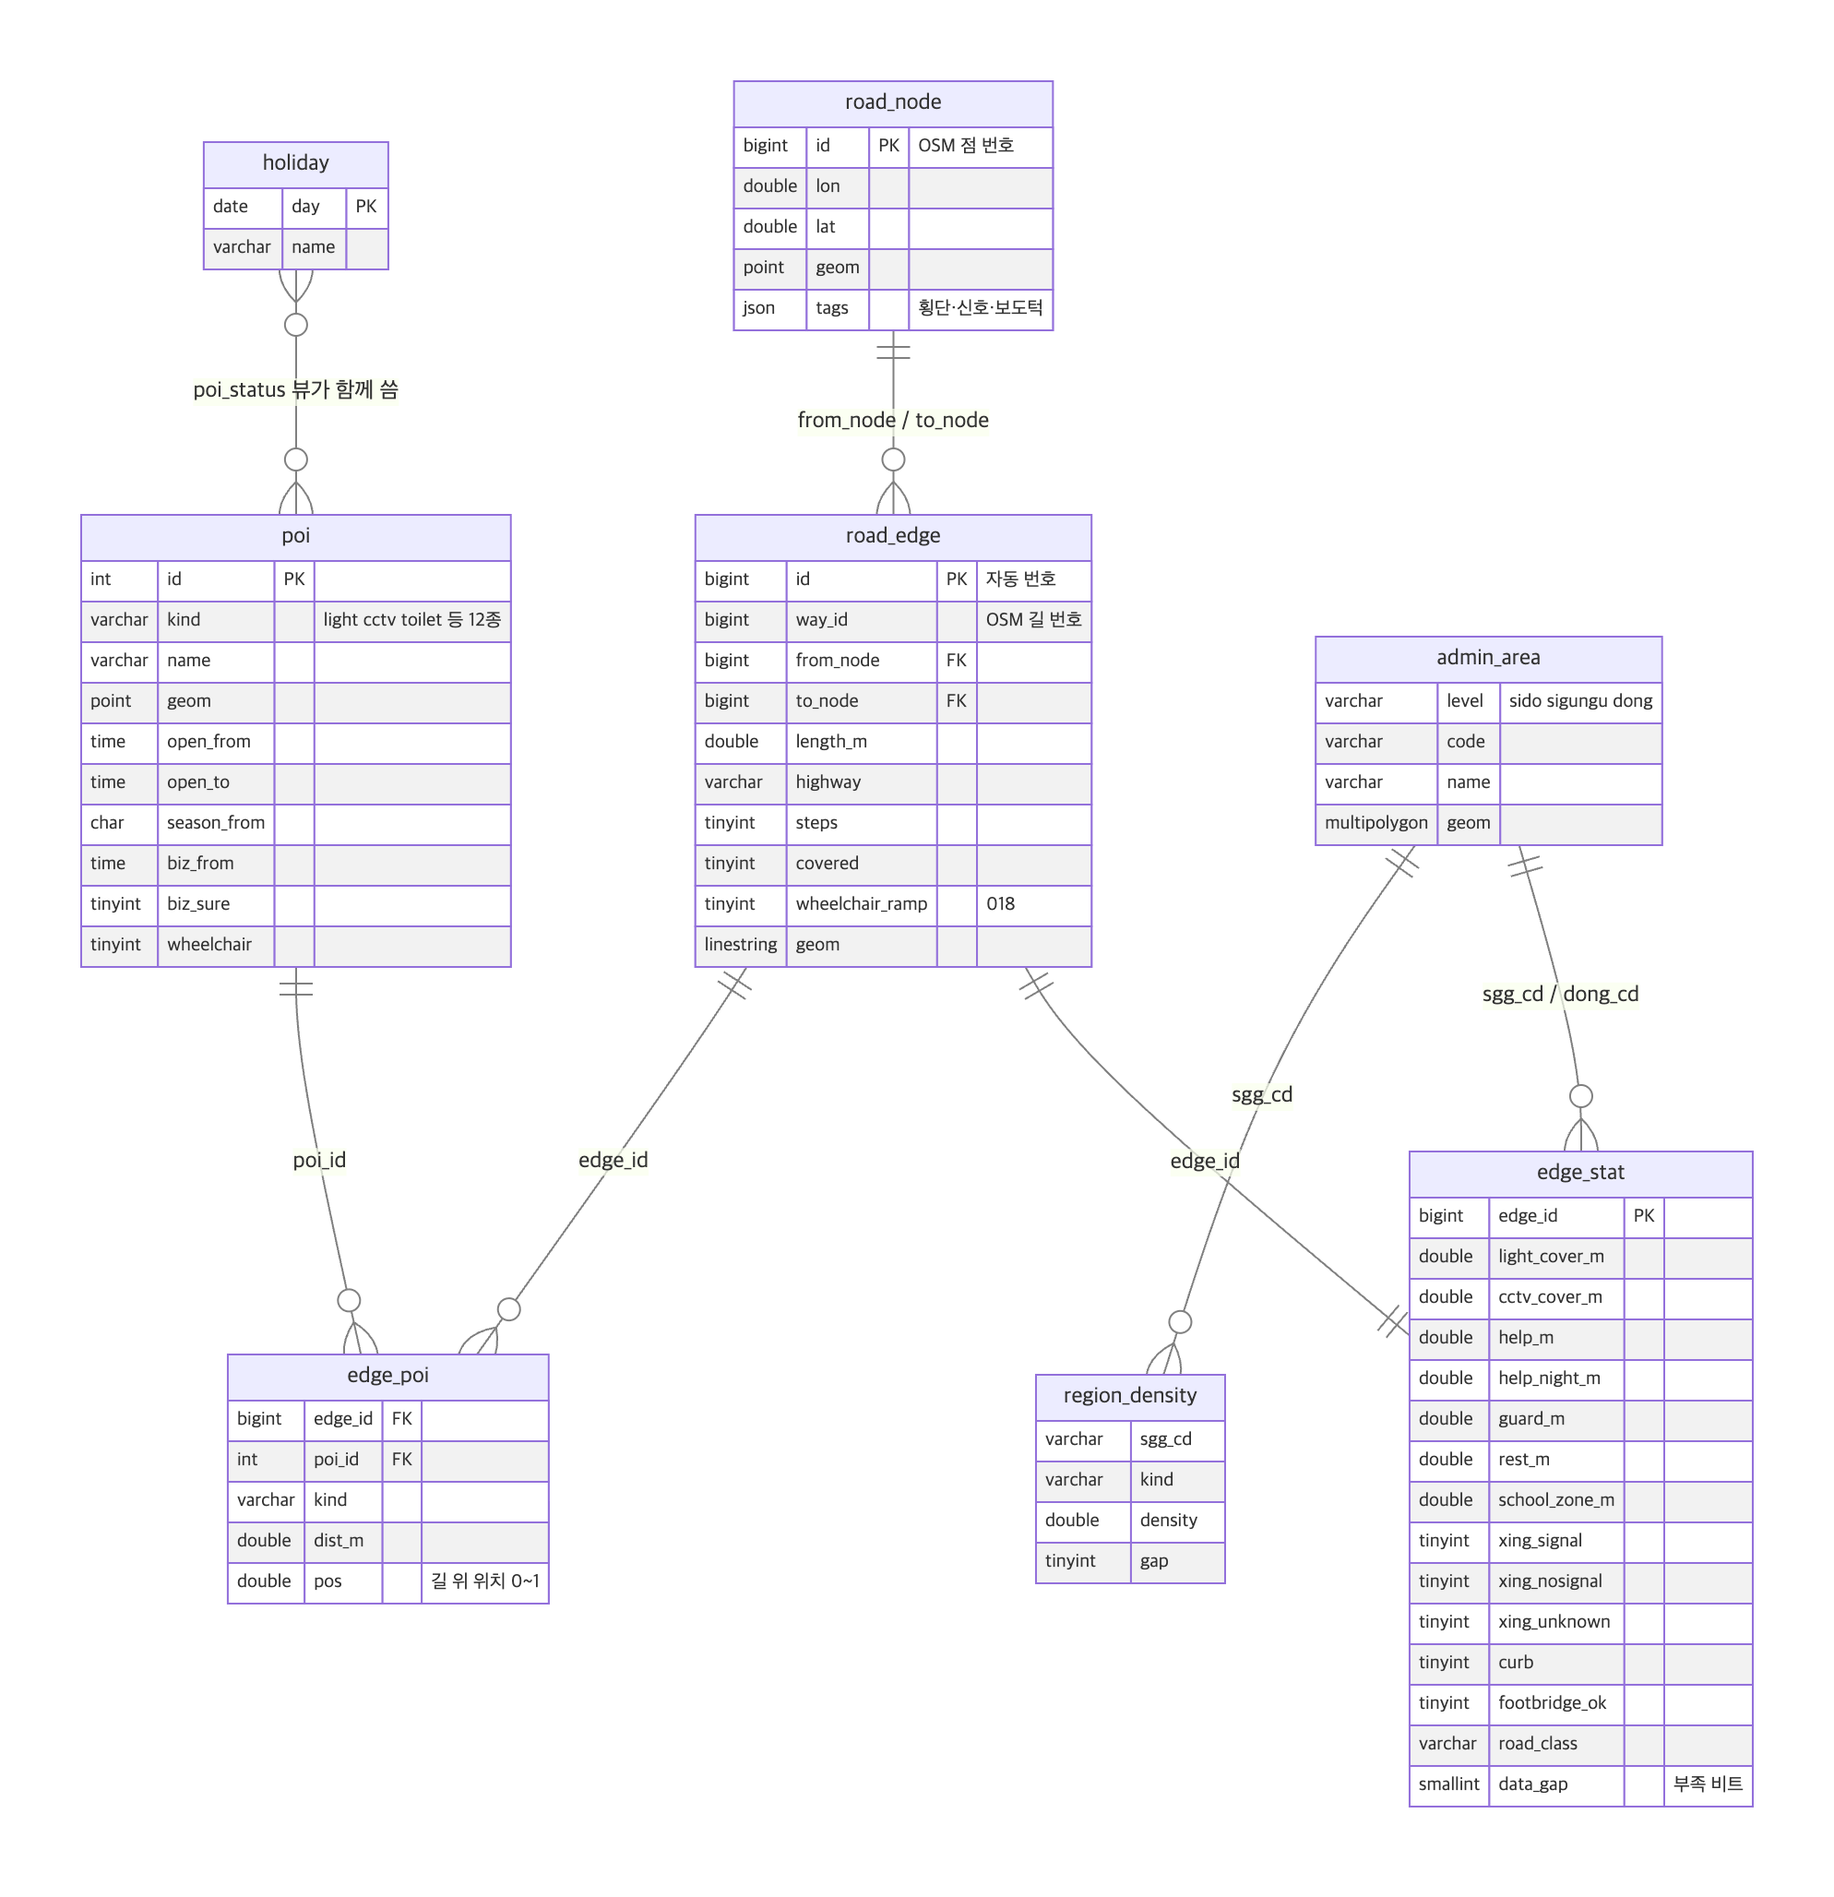
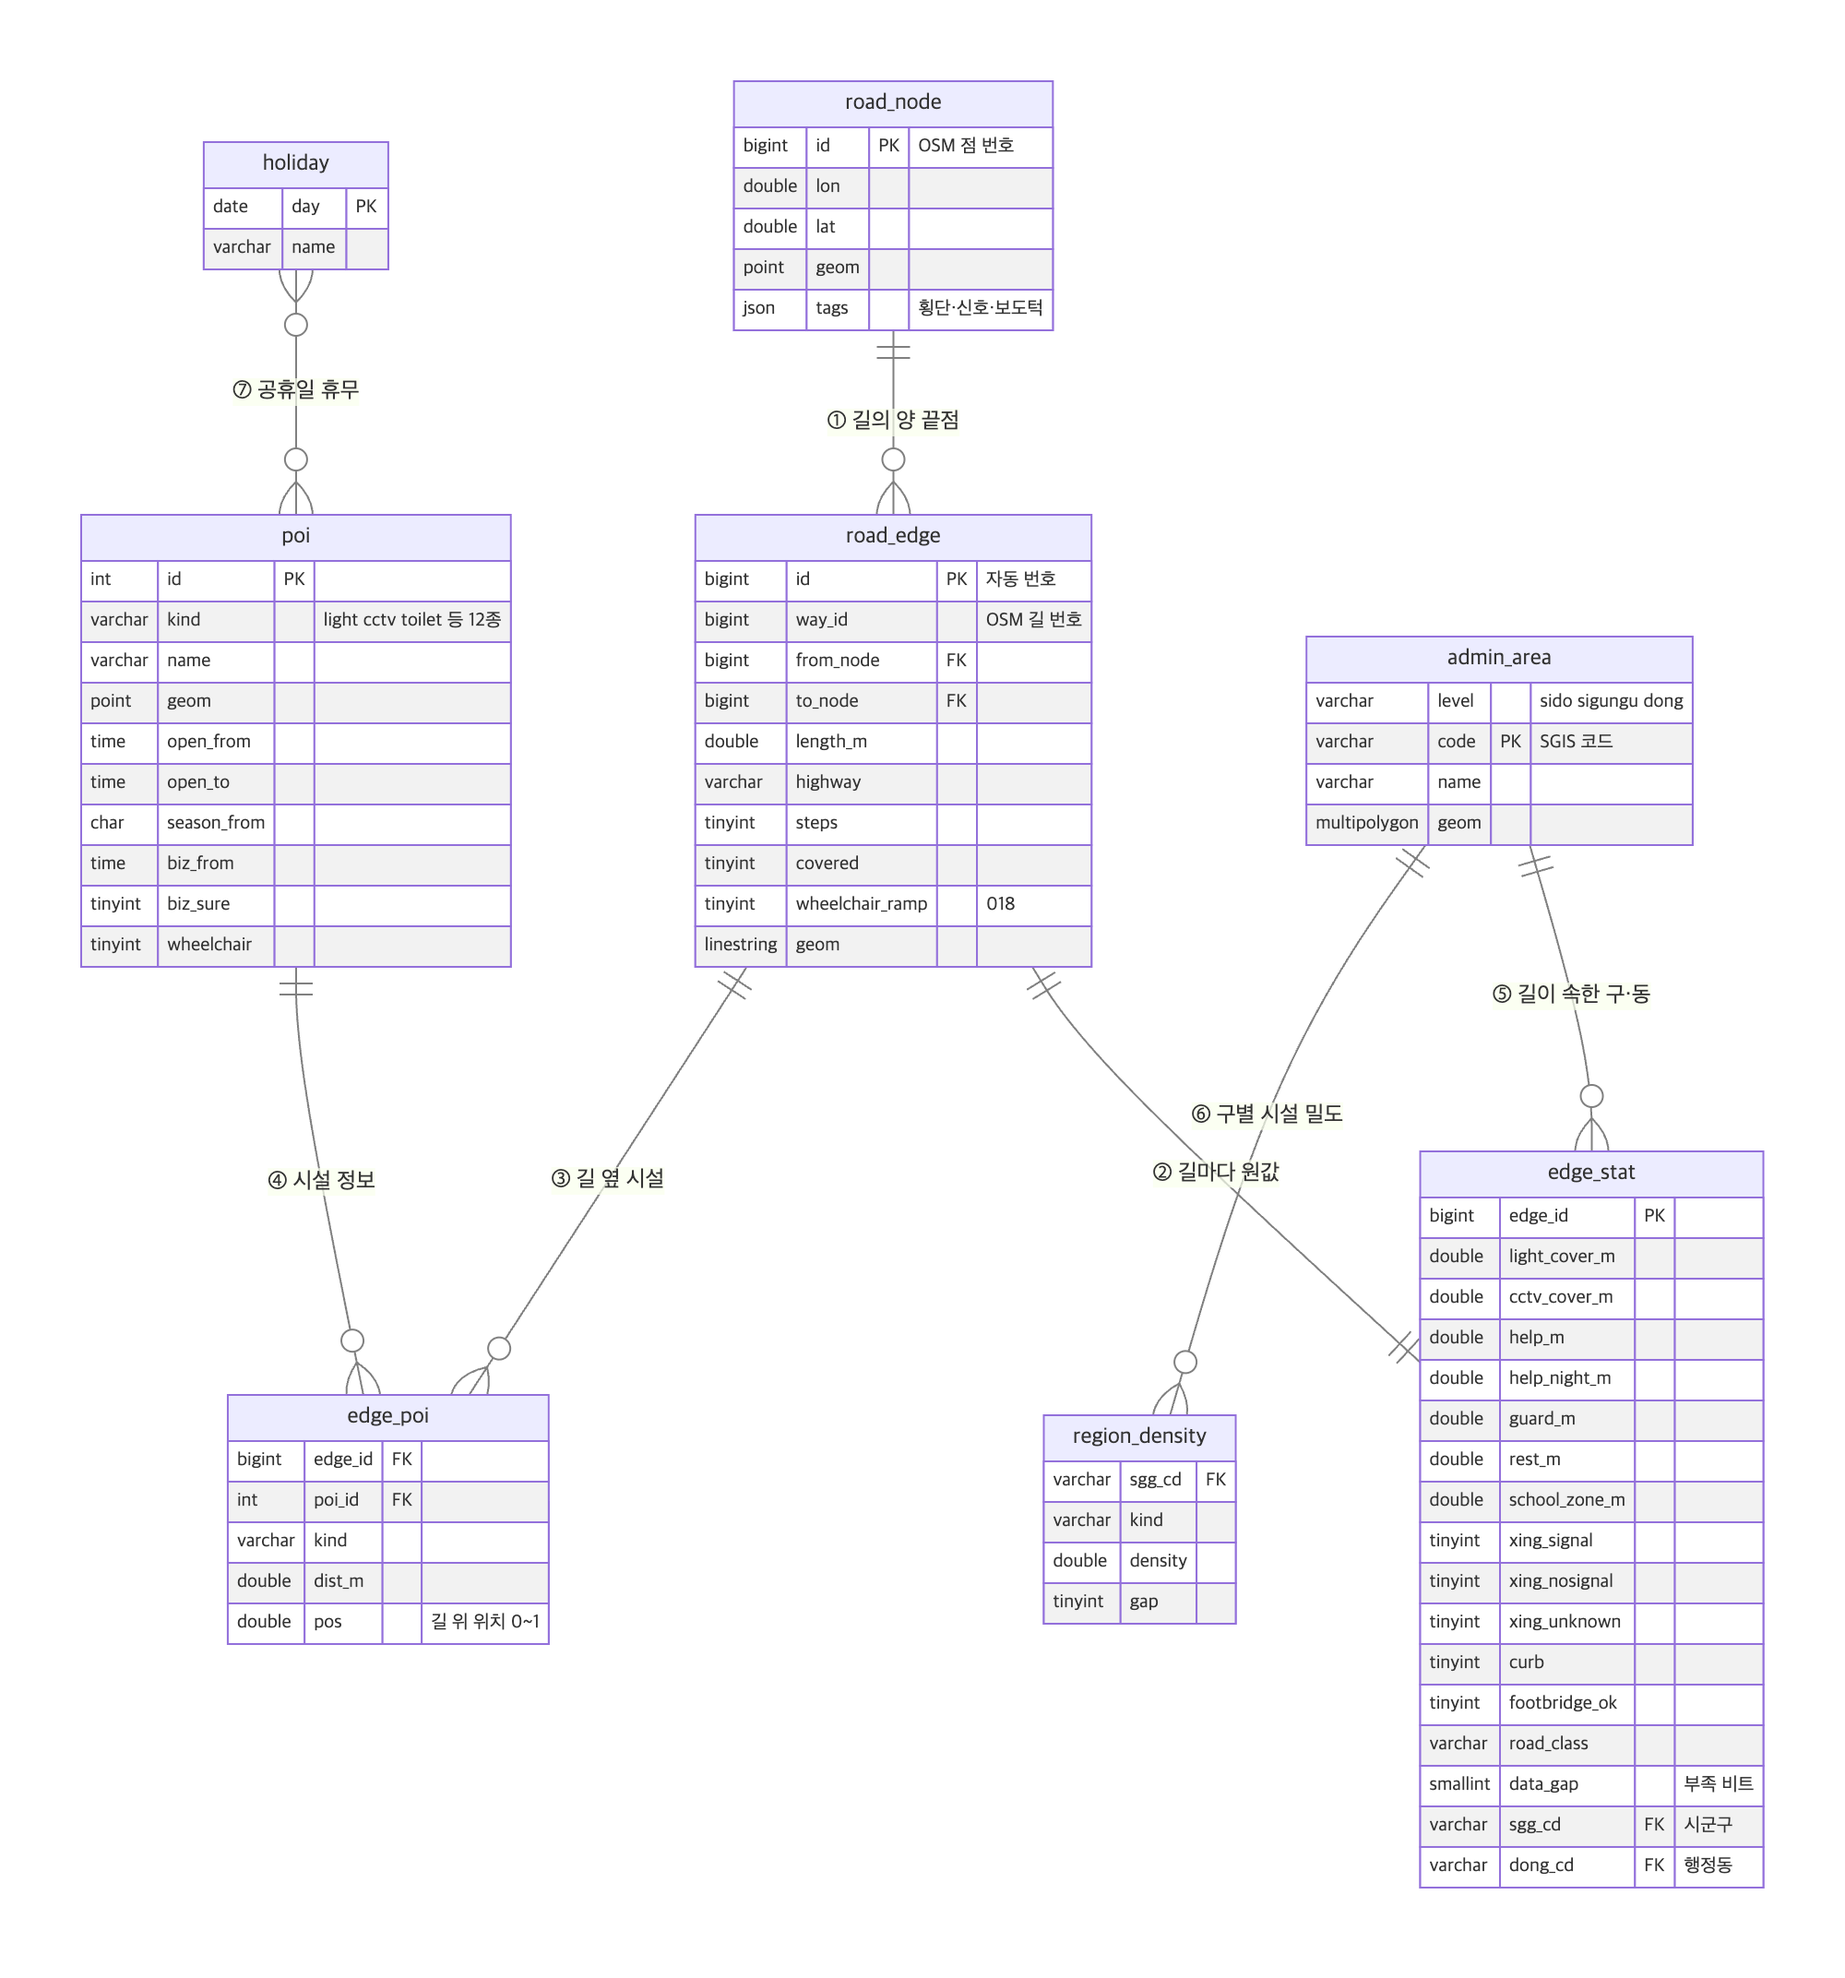
docs: ERD 연결선마다 왜 연결되는지 설명(①~⑦)을 달고 빠진 연결 칸을 넣음

diff --git a/docs/erd/README.md b/docs/erd/README.md
@@ -8,7 +8,7 @@
 
 | 파일 | 무엇 | 언제 쓰나 |
 | --- | --- | --- |
-| `route_core_erd.png` | 경로 계산에 쓰는 표 8개의 관계 그림 | 발표·문서 (요구사항 8.2에 같은 그림) |
+| `route_core_erd.png` | 경로 계산에 쓰는 표 8개의 관계 그림. 선마다 ①~⑦ 번호와 왜 연결되는지 짧게 적음 | 발표·문서 (요구사항 8.2에 같은 그림과 ①~⑦ 설명 표) |
 | `route_core_erd.mmd` | 위 그림의 mermaid 원본 | 그림을 고칠 때 |
 | `safe_route_erd_nofk.sql` | 표 32개, 외래 키 없음 (실제 DB 그대로) | ERD 도구에 실제 구조를 넣을 때 |
 | `safe_route_erd.sql` | 표 32개 + 그림용 외래 키 6개 | ERD 도구에서 관계선까지 그릴 때. **실제 DB에 실행하지 말 것** |
